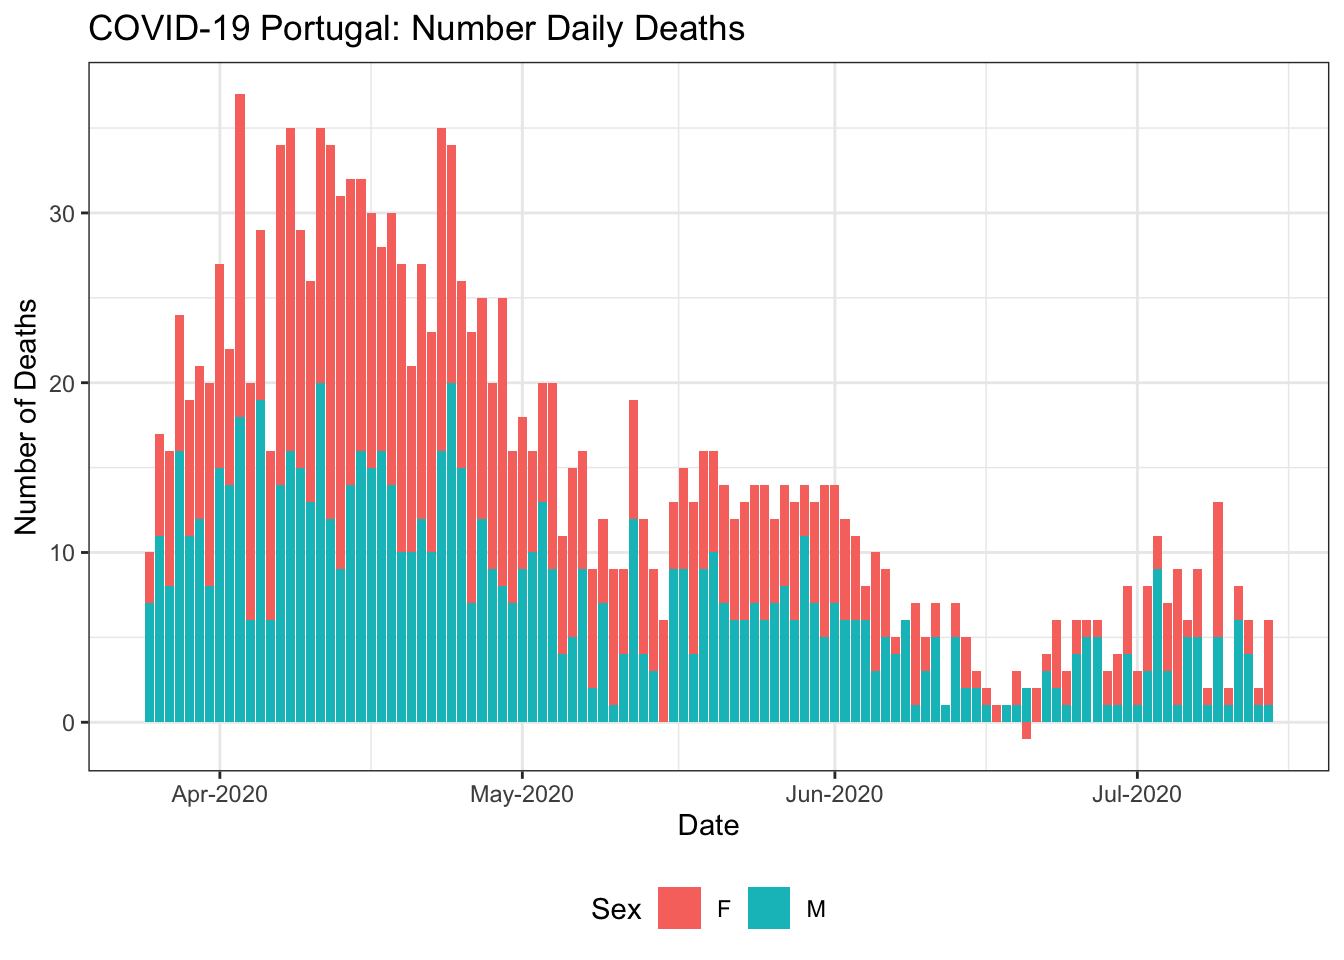
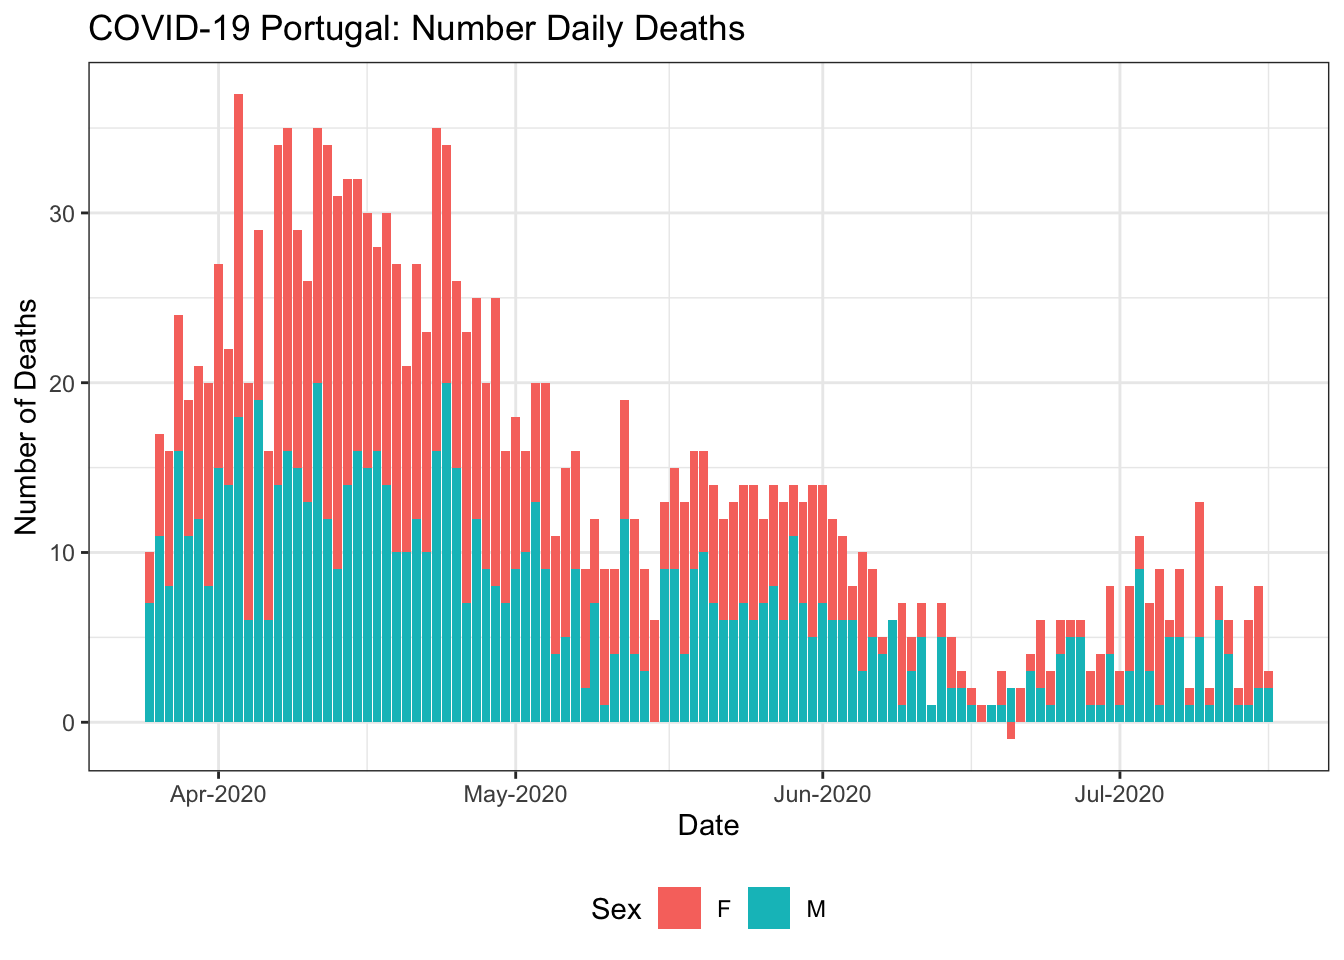
Data Update & Re-build README.Rmd

diff --git a/README.md b/README.md
@@ -1,9 +1,9 @@
 
 ## Daily Portuguese COVID-19 Data
 
-**Last updated: Wed 15 Jul 2020 (03:27:17 UTC \[+0000\])**
+**Last updated: Fri 17 Jul 2020 (15:27:16 UTC \[+0000\])**
 
-  - Data available from **26 Feb 2020** until **14 Jul 2020** (140
+  - Data available from **26 Feb 2020** until **16 Jul 2020** (142
     days).
 
 ### Download User Friendly Version
@@ -48,7 +48,7 @@ suppressPackageStartupMessages(library(here)) # library(here)
 # Read in data as a data.frame and data.table object.
 CV <- fread(here("data", "covid19pt_DSSG_Long.csv"))
 str(CV)
-## Classes 'data.table' and 'data.frame':   11760 obs. of  12 variables:
+## Classes 'data.table' and 'data.frame':   11928 obs. of  12 variables:
 ##  $ data       : chr  "2020-02-26" "2020-02-27" "2020-02-28" "2020-02-29" ...
 ##  $ origVars   : chr  "cadeias_transmissao" "cadeias_transmissao" "cadeias_transmissao" "cadeias_transmissao" ...
 ##  $ origType   : chr  "cadeias" "cadeias" "cadeias" "cadeias" ...
@@ -111,7 +111,7 @@ CV[origType=="confirmados" & ageGrp=="" & region!="Portugal"] %>%
     y = "Number of Confirmed Cases",
     colour = "Region")
 ## Warning: Transformation introduced infinite values in continuous y-axis
-## Warning: Removed 124 row(s) containing missing values (geom_path).
+## Warning: Removed 126 row(s) containing missing values (geom_path).
 ```
 
 <img src="README_figs/README-casesbyRegion-1.png" width="672" />
@@ -140,9 +140,9 @@ CV[dailyChange<0 & !(origType %in% c("vigilancia", "internados"))][
 ##   4: 2020-03-24 confirmados   confirmados_40_49_f   224          -2
 ##   5: 2020-03-19 confirmados   confirmados_60_69_f    35         -14
 ##  ---                                                               
-## 157: 2020-04-04      obitos    obitos_arsalentejo     0          -1
-## 158: 2020-05-23      obitos      obitos_arscentro   230          -3
-## 159: 2020-07-03      obitos      obitos_arscentro   248          -1
-## 160: 2020-06-20      obitos              obitos_f   768          -1
-## 161: 2020-05-21 transmissao transmissao_importada   767          -3
+## 160: 2020-04-04      obitos    obitos_arsalentejo     0          -1
+## 161: 2020-05-23      obitos      obitos_arscentro   230          -3
+## 162: 2020-07-03      obitos      obitos_arscentro   248          -1
+## 163: 2020-06-20      obitos              obitos_f   768          -1
+## 164: 2020-05-21 transmissao transmissao_importada   767          -3
 ```
